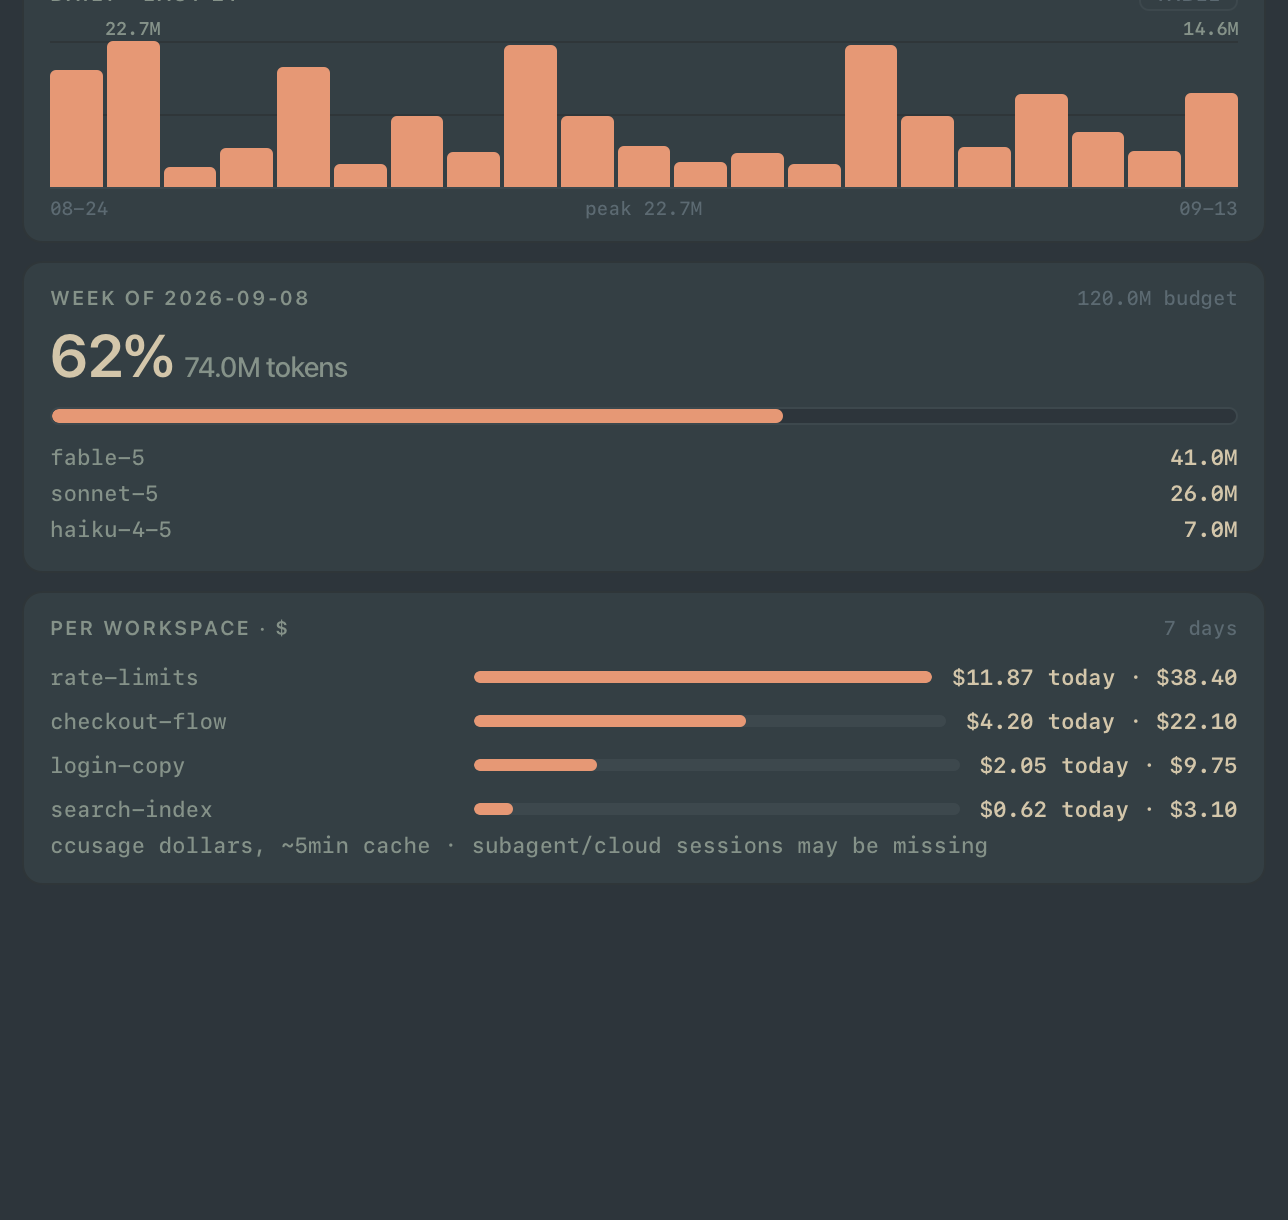
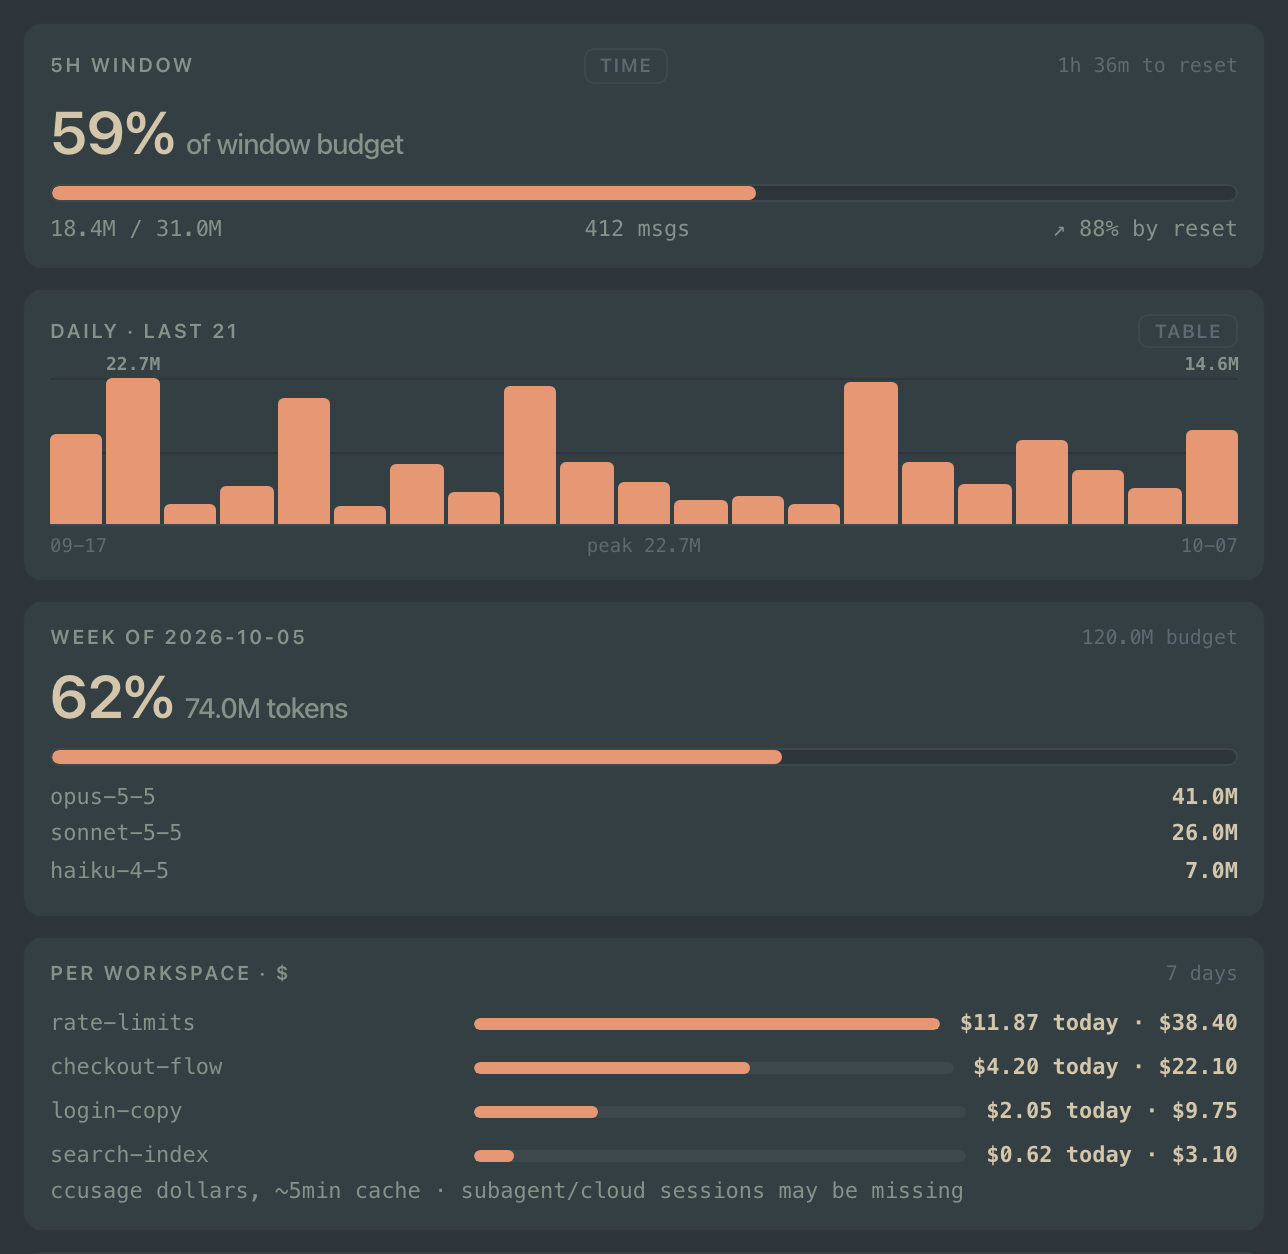
README: new and re-shot screenshots, a restack transcript, a seamux-mods section
- The review page is shown in two light-theme shots from the demo plan: the
  top of the page (context, decisions) and the quiz with two answers picked,
  replacing the dark quiz-only shot.
- usage.png is re-shot from demo data with a clean crop (the old one cut off
  the top panel's title and ended in empty space), and the Cache section gets
  the Cache re-writes panel from /usage.
- restack gets a real transcript: a two-branch stack where the generated
  schema conflicts and is regenerated, and the walk stops only for a
  hand-written tax-rate line, then continue, check and the printed push lines.
- seamux-mods gets its own section with two terminal shots from a real
  session: the plan pane with every check state, and the gate band after a
  blocked edit.

Claude-Session: https://claude.ai/code/session_01BZN6hduSLdAxwXStpcjv8H

diff --git a/README.md b/README.md
@@ -33,6 +33,7 @@ covers a first install and an update, and what to ask you along the way.
 [crew](#crew-the-board) ·
 [deep-plan](#deep-plan-plans-you-approve-one-step-at-a-time) ·
 [restack](#restack-rebase-without-merging-generated-files) ·
+[seamux-mods](#seamux-mods-deep-plan-in-the-terminal) ·
 [Setup](#setup) ·
 [Configuration](#configuration) ·
 [Security notes](#security-notes) ·
@@ -88,6 +89,8 @@ crew makes it visible:
 Detection reads your local transcripts, not the API, and the cache lifetime
 comes from your billing mode and settings.
 
+![the Cache re-writes panel on /usage: tokens re-cached this week, counts by cause, and the sessions that re-cached the most](docs/img/cache-usage.png)
+
 What to do with a warning:
 
 - A break you already took is a sunk cost. You only pay for the re-cache if
@@ -121,11 +124,15 @@ You ask for a plan. deep-plan makes the agent work through it in this order:
 ### The review page
 
 The page has the plan's context, decisions, cited evidence, diagrams and
-increments, plus a short quiz that checks that you and the plan agree. Answer
-on the page, highlight text to pin comments, then click **Copy for session**
-and paste the result back into the terminal.
+increments.
 
-![a deep-plan review surface: the alignment quiz with selectable options](docs/img/plan-review.png)
+![the top of a plan's review page: title, context, and the decisions with an "add an ADR" button](docs/img/plan-page.png)
+
+At the bottom is a short quiz that checks that you and the plan agree.
+Answer on the page, highlight text anywhere to pin comments, then click
+**Copy for session** and paste the result back into the terminal.
+
+![the quiz at the bottom of the review page: two questions answered](docs/img/plan-review.png)
 
 ### Questions with pictures
 
@@ -303,9 +310,69 @@ restack check --deep     # the CI comparisons, locally
 restack push             # prints; never pushes
 ```
 
+Here is a two-branch stack after `main` moved. Both sides added GraphQL
+types, so the generated `schema.graphql` conflicts, and both changed the tax
+rate in `app/billing.rb`. restack regenerates the schema and stops only for
+the tax rate:
+
+```text
+$ restack plan
+plan · git rebase --onto, bottom first · base origin/main (1 behind)
+  • feat/invoices — 1 commit(s) onto origin/main
+  • feat/invoice-emails — 1 commit(s) onto feat/invoices
+
+  generated artifacts both sides touched (conflicts expected, and handled):
+    graphql-schema — resolve regen, cheap
+
+$ restack run
+  rebasing feat/invoices onto origin/main
+
+stopped on feat/invoices at 1/1 — invoices: Invoice type, tax from the rate table
+  resolved for you (generated):
+    graphql-schema — regenerated (1 file)
+  yours to resolve:
+    app/billing.rb — 1 hunk
+
+  then: restack continue
+
+$ git add app/billing.rb && restack continue
+  rebasing feat/invoice-emails onto feat/invoices
+
+  ok   feat/invoices b5481eab7428
+  ok   feat/invoice-emails b355d0a6a178
+
+$ restack check
+  staleness: graphql-schema …
+  ok   graphql-schema
+
+$ restack push
+  run these yourself (the stack must go up bottom-first):
+    git push --force-with-lease origin feat/invoices
+    git push --force-with-lease origin feat/invoice-emails
+```
+
 If you use Graphite, restack leaves the rebase to `gt restack` and does its
 resolving between Graphite's stops. Without Graphite, it finds the chain from
 your open PRs or from branch topology.
+
+## seamux-mods: deep-plan in the terminal
+
+An optional plugin that draws deep-plan inside Claude Code, so you can steer
+a plan without leaving the session. It needs Claude Code 2.1.287 or later;
+install it with `./install.sh --mods`.
+
+`/plan-pane` opens a pane with the plan's increments and each one's checks,
+with buttons for `go next`, `done`, `run checks` and `variant ready`. The
+status line under the prompt shows the plan's progress, the open increment,
+and how many checks are running in the background.
+
+![the plan pane beside a Claude Code session: increment 1 with five checks (waiting on a preview, pending, passed, failed, running), and the plan in the status line](docs/img/plan-pane.png)
+
+When the gate blocks an edit, a band appears above the prompt with the
+reason and a `go next` button, so approving the next increment is one key
+away.
+
+![the gate band above the prompt after a blocked edit: the reason, go next, open plan and dismiss](docs/img/gate-band.png)
 
 ## Setup
 
